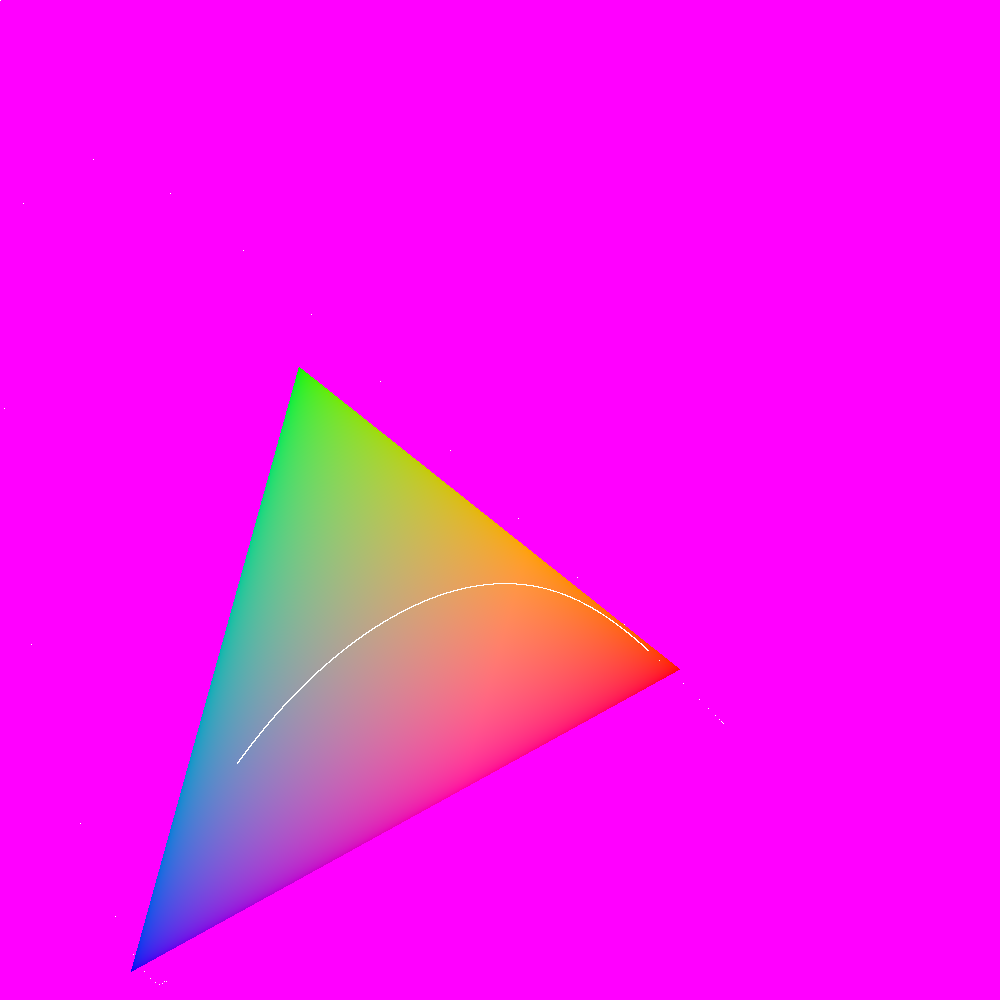
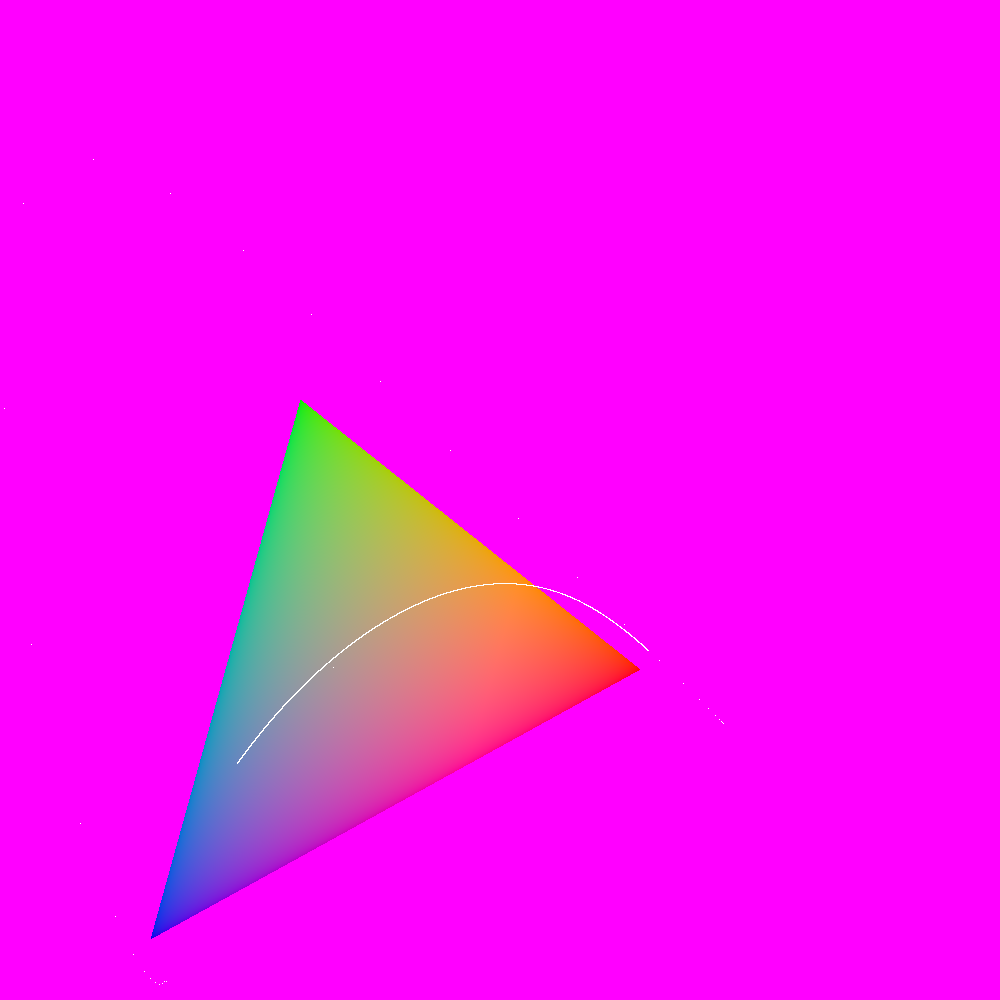
fixed the weird void light problem by shrinking the dilation factor thing!

Changed region(s): [[0.124, 0.372, 0.682, 0.992]]

diff --git a/src/lighting.rs b/src/lighting.rs
@@ -167,14 +167,19 @@ impl Spectra {
         return self.spectra.sum();
     }
 }
+
+/// fuck this shit many
 pub fn black_spectra() -> Spectra {
-    Spectra {
-        spectra: Array::zeros(40),
-    }
+    const_spectra(1e-12)
+    // Spectra {
+    //     spectra: Array::zeros(40),
+    // }
 }
 
 pub fn void_spectra() -> Spectra {
-    monochroma_spectra(500., 1e-8)
+    // monochroma_spectra(550., 1e-8)
+    black_spectra()
+    // monochroma_spectra(550., 1e-20)
     // white_spectra()
 }
 
@@ -183,7 +188,7 @@ pub fn white_spectra() -> Spectra {
         spectra: Array::ones(40),
     }
 }
-pub fn _const_spectra(value: f32) -> Spectra {
+pub fn const_spectra(value: f32) -> Spectra {
     Spectra {
         spectra: Array::from_elem(40, value),
     }

diff --git a/src/color/colorspace_conversion.rs b/src/color/colorspace_conversion.rs
@@ -41,6 +41,7 @@ pub fn spectra_to_CIEXYZ(spectra: &Spectra) -> (f32, f32, f32) {
     (X, Y, Z)
 }
 
+/// CANNOT HANDLE ZEROES
 pub fn CIEXYZ_to_xyY(XYZ: (f32, f32, f32)) -> (f32, f32, f32) {
     let X = XYZ.0;
     let Y = XYZ.1;
@@ -71,7 +72,8 @@ pub fn xyY_to_sRGB(xyY: (f32, f32, f32)) -> (f32, f32, f32) {
     // NOTE: THIS DEVIATES FROM AN ACCURATE COLOR MODEL
     // I think this will desaturate?
     // let factor = 1.2;
-    let factor = 1.04;
+    let factor = 1. + 1e-12;
+    // let factor = 1.04;
     let sR_linear = (sR_linear + (factor - 1.)) / factor;
     let sG_linear = (sG_linear + (factor - 1.)) / factor;
     let sB_linear = (sB_linear + (factor - 1.)) / factor;

diff --git a/src/main.rs b/src/main.rs
@@ -25,7 +25,9 @@ use image::{ImageBuffer, ImageFormat, Rgb, RgbImage};
 use std::{thread, time::Duration};
 use stopwatch::Stopwatch;
 
+use crate::color::colorspace_conversion::{_spectra_to_sRGB, spectra_to_display};
 use crate::geometry_pipeline::geometry_pipeline;
+use crate::lighting::{black_spectra, void_spectra};
 use crate::scene::simple_scene;
 
 fn sleep(ms: Duration) {
@@ -105,9 +107,11 @@ fn draw_colors() {
 }
 fn main() {
     check_debug();
-
     draw_colors();
-    // render_animation();
     main_loop();
+
     // single(0)
+
+    // println!("{:?}", spectra_to_display(&black_spectra()));
+    // println!("{:?}", _spectra_to_sRGB(&void_spectra()));
 }

diff --git a/src/ray_tracing/pixel_shader.rs b/src/ray_tracing/pixel_shader.rs
@@ -157,7 +157,8 @@ pub fn compute_direct_illumination(
     normal: Vector,
     _depth: u32,
 ) -> RadiantExitance {
-    let mut output: RadiantExitance = black_spectra().into();
+    let mut output: RadiantExitance = void_spectra().into(); // REMOVE THIS HACK
+                                                             // let mut output: RadiantExitance = black_spectra().into();
     'lights: for light in &scene.lights {
         // our job here is to find the amount of energy transmitted to the pixel from the light
         let to_light = &intersection_point.clone().to(light.get_position());
